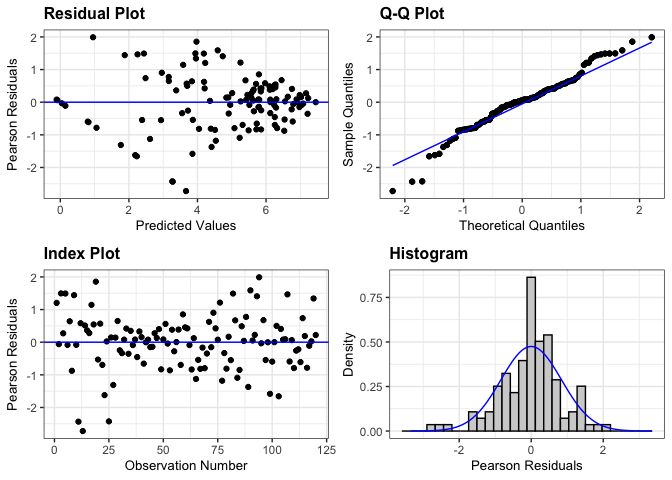
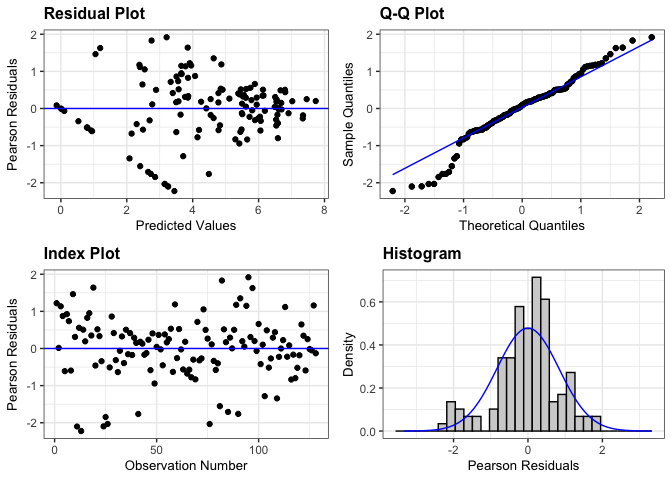
commit

diff --git a/rmarkdowns/interrow_weed_biomass.md b/rmarkdowns/interrow_weed_biomass.md
@@ -124,22 +124,22 @@ all_clean_2023 <- clean_names(all_raw_2023) |>
 #select and convert data for wbm analysis
   
 all_interwbm_clean_2023 <-all_clean_2023 |>              
-  filter(is_outlier == FALSE) |>              # Keep rows where beanyd is not an outlier
+  #filter(is_outlier == FALSE) |>              # Keep rows where beanyd is not an outlier
   filter(weeds %in% c("SW", "M")) |>       # Keep rows where SW and M are microplots
-  mutate(interwbm_grams_meter = (wbm * 2)) |> 
-  mutate(interwbm_kg_ha = ((wbm/0.5) *(10000))/(1000)) |>
-  mutate(interwbm_lbs_ac = (((wbm/0.5) *(10000))/(1000))* 0.892179)
+  mutate(interwbm_grams_meter = (interwbm * 2)) |> 
+  mutate(interwbm_kg_ha = ((interwbm/0.5) *(10000))/(1000)) |>
+  mutate(interwbm_lbs_ac = (((interwbm/0.5) *(10000))/(1000))* 0.892179)
 kable(head(all_interwbm_clean_2023)) 
 ```
 
 | id | loc | mowing | block | plot | weeds | emerg | bbm | intrawbm | interwbm | wbm | den | beanyd | beanden | is_outlier | interwbm_grams_meter | interwbm_kg_ha | interwbm_lbs_ac |
 |:---|:---|:---|:---|:---|:---|---:|---:|---:|---:|---:|---:|---:|---:|:---|---:|---:|---:|
-| FH_B1_P101 | FH | EWC | 1 | 101 | M | 21 | 87.18 | 0.75 | 16.50 | 17.25 | 44 | 367.79 | NA | FALSE | 34.50 | 345.0 | 307.80176 |
-| FH_B1_P101_SW | FH | EWC | 1 | 101 | SW | 24 | 40.32 | 3.54 | 37.65 | 41.19 | 45 | 218.00 | NA | FALSE | 82.38 | 823.8 | 734.97706 |
-| FH_B1_P102 | FH | LWC | 1 | 102 | M | 24 | 72.37 | 6.47 | 12.71 | 19.18 | 52 | 268.00 | NA | FALSE | 38.36 | 383.6 | 342.23986 |
-| FH_B1_P102_SW | FH | LWC | 1 | 102 | SW | 24 | 63.33 | 7.54 | 11.33 | 18.87 | 49 | 177.30 | NA | FALSE | 37.74 | 377.4 | 336.70835 |
-| FH_B1_P103 | FH | AWC | 1 | 103 | M | 23 | 148.62 | 4.22 | 0.00 | 4.22 | 43 | 290.00 | NA | FALSE | 8.44 | 84.4 | 75.29991 |
-| FH_B1_P103_SW | FH | AWC | 1 | 103 | SW | 26 | 84.27 | 2.90 | 8.13 | 11.03 | 39 | 236.00 | NA | FALSE | 22.06 | 220.6 | 196.81469 |
+| FH_B1_P101 | FH | EWC | 1 | 101 | M | 21 | 87.18 | 0.75 | 16.50 | 17.25 | 44 | 367.79 | NA | FALSE | 33.00 | 330.0 | 294.4191 |
+| FH_B1_P101_SW | FH | EWC | 1 | 101 | SW | 24 | 40.32 | 3.54 | 37.65 | 41.19 | 45 | 218.00 | NA | FALSE | 75.30 | 753.0 | 671.8108 |
+| FH_B1_P102 | FH | LWC | 1 | 102 | M | 24 | 72.37 | 6.47 | 12.71 | 19.18 | 52 | 268.00 | NA | FALSE | 25.42 | 254.2 | 226.7919 |
+| FH_B1_P102_SW | FH | LWC | 1 | 102 | SW | 24 | 63.33 | 7.54 | 11.33 | 18.87 | 49 | 177.30 | NA | FALSE | 22.66 | 226.6 | 202.1678 |
+| FH_B1_P103 | FH | AWC | 1 | 103 | M | 23 | 148.62 | 4.22 | 0.00 | 4.22 | 43 | 290.00 | NA | FALSE | 0.00 | 0.0 | 0.0000 |
+| FH_B1_P103_SW | FH | AWC | 1 | 103 | SW | 26 | 84.27 | 2.90 | 8.13 | 11.03 | 39 | 236.00 | NA | FALSE | 16.26 | 162.6 | 145.0683 |
 
 <br>
 
@@ -154,7 +154,7 @@ levene_test((interwbm_kg_ha) ~ loc, data = all_interwbm_clean_2023)
     ## # A tibble: 1 × 4
     ##     df1   df2 statistic      p
     ##   <int> <int>     <dbl>  <dbl>
-    ## 1     3   116      2.30 0.0814
+    ## 1     3   124      2.94 0.0358
 
 # **Model Testing**
 
@@ -194,11 +194,7 @@ resid_panel(all_interwbm_fixed_2023)
 
 ``` r
 log_all_interwbm_fixed_2023 <- lmer(log(interwbm_kg_ha+1) ~ loc*mowing*weeds + (1|loc:block)+  (1|loc:block:mowing), data = all_interwbm_clean_2023)
-```
 
-    ## boundary (singular) fit: see help('isSingular')
-
-``` r
 resid_panel(log_all_interwbm_fixed_2023)
 ```
 
@@ -211,15 +207,15 @@ resid_panel(log_all_interwbm_fixed_2023)
   kable()  
 ```
 
-|     | model term       | df1 |   df2 | F.ratio |   p.value |
-|:----|:-----------------|----:|------:|--------:|----------:|
-| 1   | loc              |   3 | 10.70 |   7.640 | 0.0052162 |
-| 5   | mowing           |   3 | 31.87 |   5.090 | 0.0054247 |
-| 7   | weeds            |   1 | 48.39 |  89.022 | 0.0000000 |
-| 2   | loc:mowing       |   9 | 31.00 |   1.178 | 0.3428459 |
-| 4   | loc:weeds        |   3 | 41.72 |  11.997 | 0.0000085 |
-| 6   | mowing:weeds     |   3 | 42.62 |   1.216 | 0.3155917 |
-| 3   | loc:mowing:weeds |   9 | 41.72 |   0.952 | 0.4923260 |
+|     | model term       | df1 | df2 | F.ratio |   p.value |
+|:----|:-----------------|----:|----:|--------:|----------:|
+| 1   | loc              |   3 |  12 |   5.281 | 0.0149108 |
+| 5   | mowing           |   3 |  36 |   8.286 | 0.0002546 |
+| 7   | weeds            |   1 |  48 |  59.057 | 0.0000000 |
+| 2   | loc:mowing       |   9 |  36 |   1.666 | 0.1338704 |
+| 4   | loc:weeds        |   3 |  48 |  11.418 | 0.0000090 |
+| 6   | mowing:weeds     |   3 |  48 |   2.301 | 0.0890220 |
+| 3   | loc:mowing:weeds |   9 |  48 |   2.047 | 0.0540013 |
 
 <br>
 
@@ -227,7 +223,7 @@ resid_panel(log_all_interwbm_fixed_2023)
 
 ``` r
 #mowing
-cld_mowing_fisher <-cld(emmeans(all_interwbm_fixed_2023, ~  mowing), Letters = letters, sort = TRUE, adjust="none", reversed=TRUE)
+cld_mowing_fisher <-cld(emmeans(all_interwbm_fixed_2023, ~  mowing,type = "response"), Letters = letters, sort = TRUE, adjust="none", reversed=TRUE)
 ```
 
     ## NOTE: Results may be misleading due to involvement in interactions
@@ -237,10 +233,10 @@ cld_mowing_fisher
 ```
 
     ##  mowing emmean   SE   df lower.CL upper.CL .group
-    ##  NWC       607 66.4 58.7      474      740  a    
-    ##  EWC       562 57.3 46.3      447      677  a    
-    ##  AWC       376 55.1 42.9      265      487   b   
-    ##  LWC       275 54.0 41.1      166      384   b   
+    ##  NWC       621 63.6 39.8    492.1      749  a    
+    ##  EWC       439 63.6 39.8    310.7      568   b   
+    ##  AWC       203 63.6 39.8     73.9      331    c  
+    ##  LWC       154 63.6 39.8     25.3      283    c  
     ## 
     ## Results are averaged over the levels of: loc, weeds 
     ## Degrees-of-freedom method: kenward-roger 
@@ -252,7 +248,7 @@ cld_mowing_fisher
 
 ``` r
 #weeds
-cld_weeds_fisher <- cld(emmeans(all_interwbm_fixed_2023, ~  weeds, type = ""), Letters = letters, sort = FALSE, adjust="none", reversed=TRUE)
+cld_weeds_fisher <- cld(emmeans(all_interwbm_fixed_2023, ~  weeds, type = "response"), Letters = letters, sort = FALSE, adjust="none", reversed=TRUE)
 ```
 
     ## NOTE: Results may be misleading due to involvement in interactions
@@ -261,9 +257,9 @@ cld_weeds_fisher <- cld(emmeans(all_interwbm_fixed_2023, ~  weeds, type = ""), L
 cld_weeds_fisher
 ```
 
-    ##  weeds emmean   SE   df lower.CL upper.CL .group
-    ##  M        188 40.0 27.6      106      270   b   
-    ##  SW       722 45.7 39.3      630      815  a    
+    ##  weeds emmean   SE df lower.CL upper.CL .group
+    ##  M        147 50.5 23     42.5      252   b   
+    ##  SW       561 50.5 23    456.7      666  a    
     ## 
     ## Results are averaged over the levels of: loc, mowing 
     ## Degrees-of-freedom method: kenward-roger 
@@ -287,18 +283,18 @@ cld_mowing_weeds_fisher
 ```
 
     ## weeds = M:
-    ##  mowing emmean    SE   df lower.CL upper.CL .group
-    ##  EWC       263  74.5 86.6    114.5      411  a    
-    ##  NWC       185  74.5 86.6     36.6      333  a    
-    ##  AWC       181  74.5 86.6     33.0      329  a    
-    ##  LWC       122  74.5 86.6    -26.0      270  a    
+    ##  mowing emmean   SE   df lower.CL upper.CL .group
+    ##  EWC     227.6 83.9 82.9    60.69      395  a    
+    ##  NWC     170.7 83.9 82.9     3.81      338  a    
+    ##  AWC     114.6 83.9 82.9   -52.32      281  a    
+    ##  LWC      75.3 83.9 82.9   -91.61      242  a    
     ## 
     ## weeds = SW:
-    ##  mowing emmean    SE   df lower.CL upper.CL .group
-    ##  NWC      1029 107.0 88.0    816.2     1242  a    
-    ##  EWC       862  83.9 87.4    694.8     1028  a    
-    ##  AWC       571  77.8 86.9    416.7      726   b   
-    ##  LWC       427  74.5 86.6    279.0      575   b   
+    ##  mowing emmean   SE   df lower.CL upper.CL .group
+    ##  NWC    1070.8 83.9 82.9   903.93     1238  a    
+    ##  EWC     651.2 83.9 82.9   484.27      818   b   
+    ##  AWC     290.5 83.9 82.9   123.63      457    c  
+    ##  LWC     232.5 83.9 82.9    65.63      399    c  
     ## 
     ## Results are averaged over the levels of: loc 
     ## Degrees-of-freedom method: kenward-roger 
@@ -315,60 +311,60 @@ cld_mowing_weeds_loc_fisher
 ```
 
     ## weeds = M, loc = CU:
-    ##  mowing emmean  SE   df lower.CL upper.CL .group
-    ##  AWC     427.2 149 86.6    131.1      723  a    
-    ##  NWC     406.2 149 86.6    110.1      702  a    
-    ##  EWC     405.6 149 86.6    109.4      702  a    
-    ##  LWC     324.8 149 86.6     28.6      621  a    
+    ##  mowing  emmean  SE   df lower.CL upper.CL .group
+    ##  NWC     349.40 168 82.9     15.6      683  a    
+    ##  AWC     300.50 168 82.9    -33.3      634  a    
+    ##  EWC     291.30 168 82.9    -42.5      625  a    
+    ##  LWC     173.35 168 82.9   -160.5      507  a    
     ## 
     ## weeds = SW, loc = CU:
-    ##  mowing emmean  SE   df lower.CL upper.CL .group
-    ##  EWC    1365.1 149 86.6   1068.9     1661  a    
-    ##  NWC    1088.0 149 86.6    791.8     1384  a    
-    ##  LWC     562.8 149 86.6    266.6      859   b   
-    ##  AWC     552.8 149 86.6    256.6      849   b   
+    ##  mowing  emmean  SE   df lower.CL upper.CL .group
+    ##  NWC     760.15 168 82.9    426.3     1094  a    
+    ##  EWC     758.35 168 82.9    424.5     1092  a    
+    ##  LWC     273.60 168 82.9    -60.2      607   b   
+    ##  AWC      92.35 168 82.9   -241.5      426   b   
     ## 
     ## weeds = M, loc = FH:
-    ##  mowing emmean  SE   df lower.CL upper.CL .group
-    ##  EWC     252.2 149 86.6    -44.0      548  a    
-    ##  LWC     128.8 149 86.6   -167.4      425  a    
-    ##  NWC      83.0 149 86.6   -213.2      379  a    
-    ##  AWC      32.2 149 86.6   -263.9      328  a    
+    ##  mowing  emmean  SE   df lower.CL upper.CL .group
+    ##  EWC     233.80 168 82.9   -100.0      568  a    
+    ##  LWC      94.85 168 82.9   -239.0      429  a    
+    ##  NWC      82.95 168 82.9   -250.9      417  a    
+    ##  AWC       6.65 168 82.9   -327.2      340  a    
     ## 
     ## weeds = SW, loc = FH:
-    ##  mowing emmean  SE   df lower.CL upper.CL .group
-    ##  EWC     671.4 149 86.6    375.2      968  a    
-    ##  NWC     605.0 149 86.6    308.9      901  ab   
-    ##  LWC     208.9 149 86.6    -87.2      505   bc  
-    ##  AWC     174.1 149 86.6   -122.1      470    c  
+    ##  mowing  emmean  SE   df lower.CL upper.CL .group
+    ##  EWC     635.55 168 82.9    301.7      969  a    
+    ##  NWC     485.20 168 82.9    151.4      819  ab   
+    ##  LWC     118.65 168 82.9   -215.2      452   b   
+    ##  AWC      89.40 168 82.9   -244.4      423   b   
     ## 
     ## weeds = M, loc = VT:
-    ##  mowing emmean  SE   df lower.CL upper.CL .group
-    ##  EWC     286.0 149 86.6    -10.2      582  a    
-    ##  NWC     240.5 149 86.6    -55.7      537  a    
-    ##  AWC     239.0 149 86.6    -57.2      535  a    
-    ##  LWC      35.0 149 86.6   -261.2      331  a    
+    ##  mowing  emmean  SE   df lower.CL upper.CL .group
+    ##  EWC     280.50 168 82.9    -53.3      614  a    
+    ##  NWC     240.50 168 82.9    -93.3      574  a    
+    ##  AWC     127.00 168 82.9   -206.8      461  a    
+    ##  LWC      33.00 168 82.9   -300.8      367  a    
     ## 
     ## weeds = SW, loc = VT:
-    ##  mowing emmean  SE   df lower.CL upper.CL .group
-    ##  NWC     714.4 215 88.0    288.0     1141  a    
-    ##  AWC     483.0 174 87.5    138.0      828  ab   
-    ##  EWC     355.5 149 86.6     59.3      652  ab   
-    ##  LWC     160.0 149 86.6   -136.2      456   b   
+    ##  mowing  emmean  SE   df lower.CL upper.CL .group
+    ##  NWC    1072.50 168 82.9    738.7     1406  a    
+    ##  AWC     547.50 168 82.9    213.7      881   b   
+    ##  EWC      88.50 168 82.9   -245.3      422    c  
+    ##  LWC      77.00 168 82.9   -256.8      411    c  
     ## 
     ## weeds = M, loc = WI:
-    ##  mowing emmean  SE   df lower.CL upper.CL .group
-    ##  EWC     106.8 149 86.6   -189.4      403  a    
-    ##  AWC      25.8 149 86.6   -270.4      322  a    
-    ##  NWC       9.2 149 86.6   -287.0      305  a    
-    ##  LWC       0.0 149 86.6   -296.2      296  a    
+    ##  mowing  emmean  SE   df lower.CL upper.CL .group
+    ##  EWC     104.80 168 82.9   -229.0      439  a    
+    ##  AWC      24.20 168 82.9   -309.6      358  a    
+    ##  NWC      10.00 168 82.9   -323.8      344  a    
+    ##  LWC       0.00 168 82.9   -333.8      334  a    
     ## 
     ## weeds = SW, loc = WI:
-    ##  mowing emmean  SE   df lower.CL upper.CL .group
-    ##  NWC    1709.9 306 87.9   1101.9     2318  a    
-    ##  AWC    1075.3 149 86.6    779.1     1371  ab   
-    ##  EWC    1054.0 214 88.0    627.8     1480  ab   
-    ##  LWC     776.6 149 86.6    480.4     1073   b   
+    ##  mowing  emmean  SE   df lower.CL upper.CL .group
+    ##  NWC    1965.50 168 82.9   1631.7     2299  a    
+    ##  EWC    1122.30 168 82.9    788.5     1456   b   
+    ##  LWC     460.90 168 82.9    127.1      795    c  
+    ##  AWC     432.90 168 82.9     99.1      767    c  
     ## 
     ## Degrees-of-freedom method: kenward-roger 
     ## Confidence level used: 0.95 
@@ -390,8 +386,8 @@ all_interwbm_clean_2023 |>
   stat_summary(geom="text", fun = "MeanPlusSe", aes(label= trimws(.group)),size=6.5,vjust=-0.5) +
   labs(
     x = "Timing of Mowing",
-    y = expression("Weed biomass" ~ (kg ~ ha^{-1})),
-    title = str_c("The influence of interrow mowing on weed biomass"),
+    y = expression("Interrow weed biomass" ~ (kg ~ ha^{-1})),
+    title = str_c("The influence of interrow mowing on interrow weed biomass"),
     subtitle = expression(italic("P < 0.005"))) +
   
   scale_x_discrete(labels = c("As-needed\nmowing", "Early\nmowing", "Late\nmowing", "No\nmowing")) +
@@ -408,24 +404,27 @@ all_interwbm_clean_2023 |>
 ![](interrow_weed_biomass_files/figure-gfm/unnamed-chunk-9-1.png)<!-- -->
 
 ``` r
-ggsave("wbm_plot_mowing.png", width = 8, height = 6, dpi = 300)
+ggsave("interwbm_plot_mowing.png", width = 8, height = 6, dpi = 300)
 ```
 
-## **Mowing\|weeds**
+## **mowing\|weeds\|loc**
 
 ``` r
 all_interwbm_clean_2023 |> 
-  left_join(cld_mowing_weeds_fisher) |> 
+  left_join(cld_mowing_weeds_loc_fisher) |> 
   ggplot(aes(x = mowing, y = interwbm_kg_ha, fill = mowing)) +
-  facet_wrap(~weeds, labeller = labeller(weeds = c("M" = "Ambient weeds", "SW" = "Ambient + Surrogate weeds")))+
+  facet_grid(weeds ~ loc, labeller = labeller(
+    loc = c("CU" = "Aurora, NY", "FH" = "Hurley, NY", "ME" = "Orono, ME", "VT" = "Alburgh, VT", "WI" = "Arlington, WI"),
+    weeds = c("M" = "Ambient Weeds", "SW" = "Ambient + Surrogate Weeds")
+  )) +
   stat_summary(geom = "bar", fun = "mean", width = 0.7) +
   stat_summary(geom = "errorbar", fun.data = "mean_se", width = 0.2) +
   stat_summary(geom="text", fun = "MeanPlusSe", aes(label= trimws(.group)),size=6.5,vjust=-0.5) +
   labs(
     x = "Timing of Mowing",
-    y = expression("Weed biomass" ~ (kg ~ ha^{-1})),
-    title = str_c("The influence of interrow mowing on weed biomass across weed levels"),
-    subtitle = expression(italic("P = 0.017"))) +
+    y = expression("Interrow weed biomass" ~ (kg ~ ha^{-1})),
+    title = str_c("The influence of interrow mowing on interrow weed biomass"),
+    subtitle = expression(italic("P = 0.054"))) +
   
   scale_x_discrete(labels = c("As-needed\nmowing", "Early\nmowing", "Late\nmowing", "No\nmowing")) +
   scale_y_continuous(expand = expansion(mult = c(0.05, 0.3))) +
@@ -441,5 +440,5 @@ all_interwbm_clean_2023 |>
 ![](interrow_weed_biomass_files/figure-gfm/unnamed-chunk-10-1.png)<!-- -->
 
 ``` r
-ggsave("wbm_plot_mowing_weeds.png", width = 8, height = 6, dpi = 300)
+ggsave("interwbm_plot_mowing_weeds_loc.png", width = 12, height = 6, dpi = 300)
 ```
